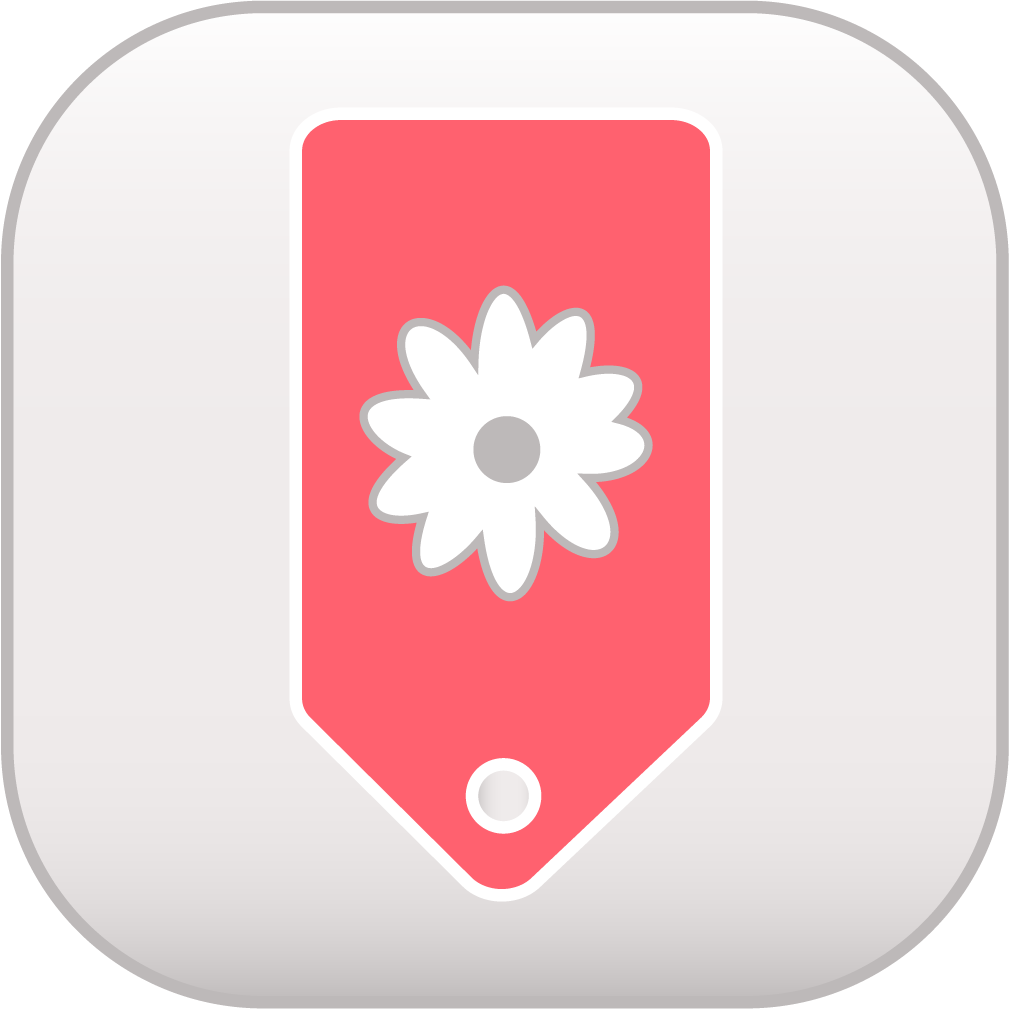
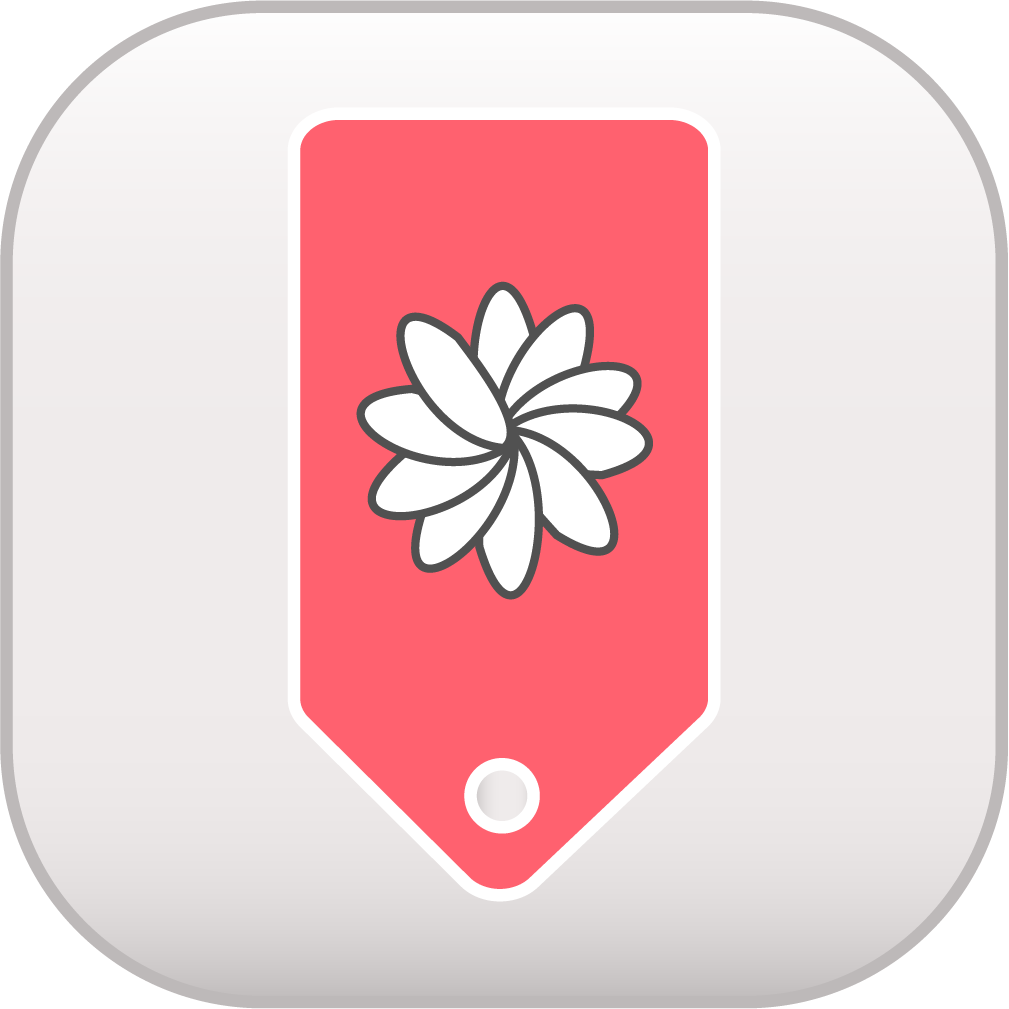
Add files via upload
Changes made: 
- Icon change; 
- Carousel auto-switch stopped; 
- Sign up page made;

Changed region(s): [[0.3687, 0.2765, 0.6452, 0.6145], [0.9832, 0.2151, 1.0, 0.7681], [0.338, 0.3994, 0.3687, 0.4301]]

diff --git a/Sign up.html b/Sign up.html
@@ -25,11 +25,125 @@
   	
  	<div class="container">
 		<div class="title">
-			<h2>Sign up for an appointment</h2>
+			<h2>Sign up:</h2>
 	 	</div>	
 		
 		<div class="form">
-			<input type="text" placeholder="What is your name?" name="Name" required>
+			<div class="row">
+			<div class="col float-right"> 
+				<p>Name:</p> 
+			</div>
+			<div class="col"> 
+			  	<input class="form_el" type="text" placeholder="Write here" name="Name" required>
+			</div>
+			</div>
+			
+			<div class="row">
+			<div class="col float-right"> 
+				<p>Last Name:</p> 
+			</div>
+			<div class="col"> 
+			  	<input class="form_el" type="text" placeholder="Write here" name="Name" required>
+			</div>
+			</div>
+			
+			<div class="row">
+			<div class="col float-right"> 
+				<p>Phone Number:</p> 
+			</div>
+			<div class="col"> 
+			  	<input class="form_el" type="text" placeholder="Write here" name="Name" required>
+			</div>
+			</div>
+			
+
+			<div class="row">
+				<div class="col float-right"> 
+				<p>Service needed:</p> 
+				</div>
+      		<div class="form_el input-field col s6">
+       	 		<select>
+				  <option value="" disabled selected>Choose your option</option>
+				  <option value="1">Delivery</option>
+				  <option value="2">Delivery as a gift</option>
+				  <option value="3">Event</option>
+				  <option value="4">Subscription</option>
+				  <option value="4">Collaboration</option>
+				</select>
+      		</div>
+			</div>
+			
+			<div class="row">
+				<div class="col float-right"> 
+				<p>Flower amount:</p> 
+				</div>
+				<div class="form_el input-field col s6">
+       	 		<select>
+				  <option value="" disabled selected>Choose your option</option>
+				  <option value="1">One flower used</option>
+				  <option value="2">2 or 3 flowers used</option>
+				  <option value="3">4 or more flowers used</option>
+				</select>
+      		</div>
+			</div>
+			
+			<div class="row">
+				<div class="col float-right"> 
+				<p>Flower arrangement type:</p> 
+				</div>
+				<div class="form_el input-field col s6">
+       	 		<select>
+				  <option value="" disabled selected>Choose your option</option>
+				  <option value="1">Single flower</option>
+				  <option value="2">Bouquet</option>
+				  <option value="3">Table arrangement</option>
+				</select>
+      		</div>
+			</div>
+			
+			<div class="row">
+				<div class="col float-right"> 
+				<p>Flowers to add:</p> 
+				</div>
+				<div class="col"> 
+			  	<input class="form_el" type="text" placeholder="Write here" name="Name" required>
+				</div>
+			</div>
+			
+			<div class="row">
+				<div class="col float-right"> 
+				<p>Flowers to avoid:</p> 
+				</div>
+				<div class="col"> 
+			  	<input class="form_el" type="text" placeholder="Write here" name="Name" required>
+				</div>
+			</div>
+			
+			<div class="row">
+				<div class="col float-right"> 
+				<p>Needed by:</p> 
+				</div>
+				<div class="col"> 
+			  	<input class="form_el" type="date" placeholder="Write here" name="Name" required>
+				</div>
+			</div>
+			
+			<div class="row">
+				<div class="col float-right"> 
+				<p>Comments</p> 
+				</div>
+				<div class="col"> 
+			  	<input class="form_el" type="text" placeholder="Write here" name="Name" required>
+				</div>
+			</div>
+			
+			<div class="row">
+				<button onclick="myFunction()">Submit</button>
+				<script>
+				function myFunction() { alert("Thank you! We'll talk soon!");}
+				</script>
+			</div>
+			
 		</div>
  	</div>
 

diff --git a/index.html b/index.html
@@ -35,7 +35,7 @@
 			  <h4>Photoshoots</h4>
 	  	</div>
 		<div class="carousel">
-		  <div id="carouselExampleIndicators1" class="carousel slide" data-ride="carousel" style="background-color: grey">
+		  <div id="carouselExampleIndicators1" class="carousel slide" data-ride="carousel" data-interval="false" style="background-color: grey">
 			  <ol class="carousel-indicators">
 			    <li data-target="#carouselExampleIndicators1" data-slide-to="0" class="active"></li>
 			    <li data-target="#carouselExampleIndicators1" data-slide-to="1"></li>
@@ -70,7 +70,7 @@
 			  <h4>Weddings</h4>
 	  	</div>
 		<div class="carousel">
-		  <div id="carouselExampleIndicators2" class="carousel slide" data-ride="carousel" style="background-color: grey">
+		  <div id="carouselExampleIndicators2" class="carousel slide" data-ride="carousel" data-interval="false" style="background-color: grey">
 		    <ol class="carousel-indicators">
 		      <li data-target="#carouselExampleIndicators2" data-slide-to="0" class="active"></li>
 		      <li data-target="#carouselExampleIndicators2" data-slide-to="1"></li>
@@ -101,7 +101,7 @@
 			<h4>Presents</h4>
 		</div>
 		<div class="carousel">
-	      <div id="carouselExampleIndicators3" class="carousel slide" data-ride="carousel" style="background-color: grey">
+	      <div id="carouselExampleIndicators3" class="carousel slide" data-ride="carousel" data-interval="false" style="background-color: grey">
 	        <ol class="carousel-indicators">
 	          <li data-target="#carouselExampleIndicators3" data-slide-to="0" class="active"></li>
 	          <li data-target="#carouselExampleIndicators3" data-slide-to="1"></li>
